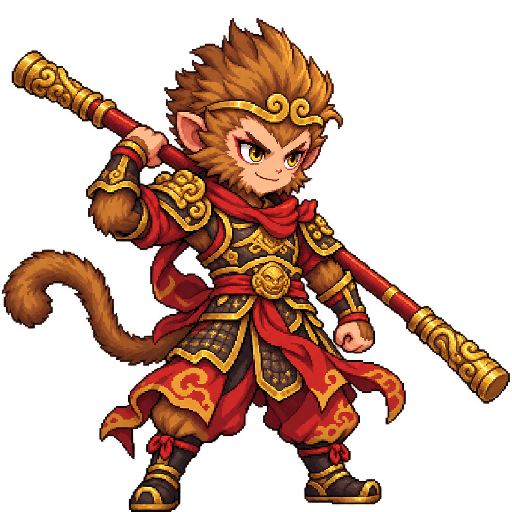
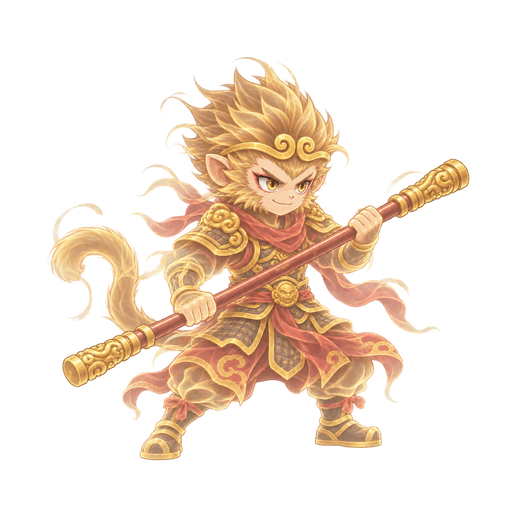
Codex 20261114T174152Z-4dfd205d: WUKONG-CLONE-ART (Codex) — ร่างแยกหงอคง + การ์ดท่ากวาด · 15 พ.ย. 2569 [ready_for_review]

diff --git a/docs/art-reviews/2026-11-15-wukong-clone-art/check-assets.py b/docs/art-reviews/2026-11-15-wukong-clone-art/check-assets.py
@@ -1,0 +1,67 @@
+"""ตรวจไฟล์ภาพส่งมอบด้วย Pillow; เรียกจาก working directory ใดก็ได้."""
+from pathlib import Path
+import hashlib
+import struct
+
+from PIL import Image
+
+ROOT = Path(__file__).resolve().parents[3]
+ART = ROOT / 'img/z2-events'
+EXPECTED = {
+    'boss-wukong-clone-asia.webp': ((512, 512), 'RGBA', b'VP8L'),
+    'boss-wukong-clone-asia-profile.webp': ((512, 512), 'RGB', b'VP8 '),
+    'cut-wukong-sweep-asia.webp': ((1672, 941), 'RGB', b'VP8 '),
+    'cut-wukong-clones-asia.webp': ((1672, 941), 'RGB', b'VP8 '),
+}
+
+
+def chunks(data):
+    assert data[:4] == b'RIFF' and data[8:12] == b'WEBP'
+    assert struct.unpack_from('<I', data, 4)[0] + 8 == len(data)
+    offset = 12
+    while offset < len(data):
+        size = struct.unpack_from('<I', data, offset + 4)[0]
+        yield data[offset:offset + 4]
+        offset += 8 + size + size % 2
+    assert offset == len(data)
+
+
+for name, (size, mode, encoding) in EXPECTED.items():
+    path = ART / name
+    data = path.read_bytes()
+    assert encoding in list(chunks(data)), f'{name}: unexpected WebP encoding'
+    with Image.open(path) as im:
+        im.load()  # Decode the entire image, not just its header.
+        assert im.format == 'WEBP' and im.size == size and im.mode == mode, name
+    print(f'OK {name}: {size[0]}x{size[1]} {mode} {encoding.decode().strip()} '
+          f'{len(data)} bytes SHA256={hashlib.sha256(data).hexdigest()}')
+
+with Image.open(ART / 'boss-wukong-clone-asia.webp') as clone:
+    alpha = clone.getchannel('A')
+    box = alpha.getbbox()
+    assert box and min(box[0], box[1], 512 - box[2], 512 - box[3]) >= 24
+    assert alpha.getextrema()[0] == 0
+    histogram = alpha.histogram()
+    assert sum(histogram[1:255]) > 10000, 'Missing painted partial transparency'
+    for bounds in [(0, 0, 512, 24), (0, 488, 512, 512),
+                   (0, 0, 24, 512), (488, 0, 512, 512)]:
+        assert alpha.crop(bounds).getextrema() == (0, 0), 'Dirty canvas edge'
+    pixels = clone.tobytes()
+    assert all(pixels[i:i + 3] == b'\0\0\0'
+               for i in range(0, len(pixels), 4) if pixels[i + 3] == 0), \
+        'Hidden matte color in fully transparent pixels'
+    with Image.open(ART / 'boss-wukong-asia.webp') as original:
+        original_box = original.getchannel('A').getbbox()
+        assert box[3] - box[1] < original_box[3] - original_box[1]
+    print(f'OK alpha: bbox={box}; 24px transparent border; '
+          f'{sum(histogram[1:255])} partially transparent pixels; no hidden matte')
+
+for suffix in ['', '-profile']:
+    assert (ART / f'boss-wukong-clone-asia{suffix}.webp').read_bytes() != \
+        (ART / f'boss-wukong-asia{suffix}.webp').read_bytes(), 'Unchanged placeholder'
+
+with Image.open(Path(__file__).with_name('contact-sheet.jpg')) as sheet:
+    sheet.load()
+    assert sheet.format == 'JPEG' and sheet.mode == 'RGB' and sheet.size == (1600, 2208)
+print('OK contact-sheet.jpg: 1600x2208 RGB JPEG')
+print('ตรวจโครงสร้างไฟล์ครบ 4 ภาพ; องค์ประกอบและขอบบนพื้นสว่าง/เข้มต้องตรวจด้วยสายตาร่วมด้วย')

diff --git a/docs/art-reviews/2026-11-15-wukong-clone-art/README.md b/docs/art-reviews/2026-11-15-wukong-clone-art/README.md
@@ -1,0 +1,98 @@
+# ภาพร่างแยกหงอคงและการ์ดท่ากวาด — 15 พฤศจิกายน 2569
+
+ส่งมอบภาพวาดใหม่ 4 ภาพ ใช้ ImageGen ในตัว 4 ครั้งจากงบไม่เกิน 8 ครั้ง ภาพละ 1 ครั้ง ไม่มี retry ทั้งหมดอ้างอิงหงอคงของโปรเจกต์และฉากศึกบูรพา ไม่เปลี่ยนโค้ดเกม
+
+## ไฟล์ส่งมอบ
+
+| ไฟล์ใน img/z2-events/ | ขนาด | โหมด | การบันทึก |
+| --- | --- | --- | --- |
+| boss-wukong-clone-asia.webp | 512×512 | RGBA | WebP lossless |
+| boss-wukong-clone-asia-profile.webp | 512×512 | RGB | WebP q86 |
+| cut-wukong-sweep-asia.webp | 1672×941 | RGB | WebP q86 |
+| cut-wukong-clones-asia.webp | 1672×941 | RGB | WebP q86 |
+
+สามไฟล์แรกเขียนทับ placeholder ตามชื่อและขนาดเดิม ไฟล์สุดท้ายเป็นภาพเสริมที่เพิ่มใหม่
+
+**ถึง Claudy:** `img/z2-events/cut-wukong-clones-asia.webp` ยังไม่มีจุดเรียกใช้ในเกม ภาพพร้อมสำหรับนำไปผูกกับท่าถอนขนสร้างร่างแยกในงานถัดไป รายงานนี้ไม่ได้ส่งข้อความหา Claudy และไม่ได้เพิ่มจุดเรียกใช้เอง
+
+## ภาพรวมสำหรับตรวจงาน
+
+[เปิด contact sheet](contact-sheet.jpg) — JPEG 1600×2208 ไม่มีข้อความวาดทับภาพ
+
+- แถวบน ซ้ายไปขวา: ตัวจริงอ้างอิงบนพื้นเข้ม, ร่างแยกบนพื้นเข้ม, ร่างแยกบนพื้นสว่าง, ภาพครึ่งตัวร่างแยก
+- แถวกลาง: กระบองกวาดสิบทิศ
+- แถวล่าง: เป่าขนกลายเป็นร่างแยก
+
+## แหล่งอ้างอิงและวิธีส่งออก
+
+- `img/z2-events/boss-wukong-asia.webp`: หน้า สัดส่วนลิงแบบ chibi ห่วงทอง เกราะแดงทอง ผ้าพันคอ หาง และกระบอง
+- `img/z2-events/boss-wukong-asia-profile.webp`: การจัดภาพครึ่งตัวและฉากวัดสีเขียวเข้ม
+- `img/z2-events/cut-wukong-arrives-asia.webp`: ลายเส้น การลงสี และแสงของฉากเหตุการณ์
+- `img/theme-v4/arena-asia.webp`: ลานศึกบูรพาที่ระบบ `battleBackground` เลือกใช้สำหรับศึกโซน asia
+
+ร่างแยกและความโปร่งแสงวาดโดย ImageGen พร้อมเส้นขนปลิว ไม่ใช้โค้ดย้อมสี ตัวสไปรต์ต้นฉบับ 1254×1254 RGBA ย่อแบบ premultiplied alpha ด้วย Lanczos เป็น 460×460 แล้ววางกลางผืนโปร่งใส 512×512 เพื่อให้เล็กกว่าตัวจริง ภาพครึ่งตัวย่อจาก 1254×1254 เป็น 512×512 ฉากกว้างได้ 1672×941 จากเครื่องมืออยู่แล้ว จึงไม่ต้องย่อหรือครอป
+
+ใช้ Pillow บันทึก RGB ด้วย `quality=86, method=6` และ RGBA ด้วย `lossless=True, quality=100, method=6, exact=True` ล้างเพียง alpha noise ที่ค่า ≤2/255 และ RGB ของพิกเซลโปร่งใสสนิทให้เป็นศูนย์ ไม่ลดอัลฟาทั้งภาพหรือเปลี่ยนสีส่วนที่เห็น
+
+## ผลตรวจที่ทำจริง
+
+เรียกจากราก repo:
+
+```sh
+python3 docs/art-reviews/2026-11-15-wukong-clone-art/check-assets.py
+node --test tests/boss-skills.test.mjs tests/z2-events-order.test.mjs tests/battle-background.test.mjs
+git diff --check
+```
+
+- ตัวตรวจภาพเปิดและ decode ครบทั้ง 4 ไฟล์ ตรวจชื่อ ขนาด โหมดสี และชนิด WebP: RGBA เป็น VP8L; RGB เป็น VP8
+- สไปรต์มีกรอบอัลฟาสงวนโปร่งใสอย่างน้อย 24 px ทุกด้าน; bounding box ส่วนที่เห็นคือ `(47, 56, 471, 462)`; มีพิกเซลโปร่งแสง 77,535 พิกเซล
+- ไม่เหลือสี matte ซ่อนอยู่ในพิกเซล alpha=0 หลังแก้ รอบตรวจแรกพบ 3,213 พิกเซลที่มี RGB ค้างอยู่ จึงล้างค่าและเรียกตัวตรวจซ้ำ ผลตรวจสุดท้ายครบตาม assertion
+- ตรวจ contact sheet จากไฟล์ WebP ที่ส่งออกจริง ทั้งพื้นสว่างและพื้นเข้ม: ไม่พบขอบพื้นหลังทึบ เส้นขนและความโปร่งแสงยังเห็นต่อเนื่อง
+- Node tests ทั้งสามไฟล์: 30 รายการสำเร็จ, 0 ล้มเหลว มี ExperimentalWarning ของ Node เรื่อง localStorage จากชุดทดสอบเดิม
+- ตรวจภาพด้วยสายตา: ไม่พบตัวอักษรในภาพทั้งสี่ หน้าตาและชุดยึดแบบเดิม การ์ดกวาดมีหงอคงเพียงตัวเดียวพร้อมวงกระบอง ลม และเศษหิน ส่วนภาพเสริมมีตัวจริงกำลังเป่าขนและร่างแยกสีทองหลายตน
+- ไม่ได้เปิดเกมทดสอบการแสดงผลจริง ผล Node เป็นการตรวจระบบและจุดอ้างอิงเดิม ไม่ใช่ผลตรวจภาพในเกม
+
+ค่าคุณภาพ q86 เป็นพารามิเตอร์ตอนบันทึก ส่วนตัวตรวจยืนยันได้เฉพาะชนิด codec ไม่ได้อนุมานค่า q จากไฟล์ที่เข้ารหัสแล้ว การตรวจด้วยสายตาไม่ได้ใช้ OCR ยืนยันว่าไม่มีข้อความ
+
+## ตรวจตนเองตามเกณฑ์รับงาน
+
+| เกณฑ์ | หลักฐาน / ขอบเขต |
+| --- | --- |
+| สไปรต์ร่างแยก 512×512 RGBA เล็กกว่าตัวจริง ถือกระบองพร้อมสู้ โปร่งแสงทองและขนปลิว | ภาพใหม่มีท่าและเส้นขนเฉพาะ; ขนาด โหมด อัลฟา และความสูงที่เล็กกว่าตัวจริงตรวจโดยสคริปต์ |
+| ครึ่งตัวร่างแยก 512×512 RGB ตามแบบ profile | ใช้สไปรต์ร่างแยกใหม่และ profile ตัวจริงเป็น reference; ตรวจเทียบใน contact sheet |
+| การ์ดกวาด 1672×941 RGB วงกระบอง ลม เศษหิน ไม่มีทีม | ตรวจโครงสร้างโดยสคริปต์และองค์ประกอบด้วยสายตา |
+| ภาพถอนขนเพิ่มเมื่อมีงบ พร้อมบอก Claudy | สร้างเพิ่มเป็นไฟล์ใหม่ในงบ; มีข้อความส่งต่องานถึง Claudy ด้านบน ยังไม่ผูกกับเกม |
+| รูปลักษณ์และฉากตาม reference ไม่มีตัวอักษร | ตรวจภาพส่งออกเทียบ reference ด้วยสายตา |
+| WebP q86 สำหรับ RGB และ lossless สำหรับ RGBA; ขอบอัลฟาสะอาด | พารามิเตอร์บันทึกและการตรวจ codec; กรอบโปร่งใส, ไม่มี RGB ซ่อน, ตรวจบนพื้นสว่าง/เข้ม |
+| งบ ≤8 ครั้ง และ retry ≤2 ครั้งต่อภาพ | ใช้ 4 ครั้ง ภาพละ 1 ครั้ง; retry 0 |
+| มี contact sheet JPG และ README ไทยในโฟลเดอร์ที่กำหนด | ทั้งสองไฟล์อยู่โฟลเดอร์เดียวกับรายงานนี้ พร้อมสคริปต์ตรวจซ้ำ |
+| จำกัดขอบเขตงานใน worktree / branch เดิม | แก้เฉพาะภาพส่งมอบและรายงาน; ไม่แก้ source เกม hooks status.json หรือ worklog.json; ไม่สร้าง worktree/branch ไม่ commit/push/merge และไม่ deploy |
+
+## พรอมป์ต์ที่ใช้จริง
+
+ใช้เครื่องมือ ImageGen ในตัวทั้งหมด ไม่ใช้ CLI/API fallback ภาพที่ 1 เปิด `transparent_background=true` อีกสามภาพใช้ `false` Reference ของภาพที่ 2 และ 4 ใช้ร่างแยกจากภาพที่ 1 เพื่อคุมหน้าตาให้ตรงกัน
+
+### ภาพที่ 1
+
+```text
+Use case: stylized-concept. Create ONE finished square game sprite, a hair-born magical clone of the exact Wukong in reference image 1. Reference 1 is identity and hand-painted chibi fantasy art style, not an edit target. Keep his recognizable youthful monkey face, spiky swept-up fur, curled gold forehead circlet, red scarf and flowing red tabard, ornate red and gold armor with dark scale panels, monkey-tail, boots and long red-shaft staff with elaborate golden ends. New pose: full body in a compact ready-to-fight stance, holding the staff diagonally across his body in both hands. The clone should occupy about 82% of the square height, slightly smaller than the reference original, entire tail and both staff ends inside frame with padding. CRUCIAL: design the clone as a pale honey-gold translucent apparition with readable armor details and faint translucent muted red accents, a semi-transparent luminous body, and actual wispy individual golden monkey hairs breaking away from the silhouette, hair strands trailing from shoulders, arms and tail. This is hand-drawn clone-specific art, not a simple recolor of the original. Strong coherent silhouette and clear face at 512px game size, nuanced ink outlines and painted shading matching reference. True transparent background with alpha, no scenery, no ground plane, no hard aura disc, no opaque backdrop, no cast shadow. Do not draw any text, glyphs, letters, numbers, logos, borders, or watermark. Only ONE clone, no other characters. Output square with actual transparency.
+```
+
+### ภาพที่ 2
+
+```text
+Use case: stylized-concept. Make ONE finished square half-body game portrait. Reference image 1 is the ORIGINAL Wukong profile: copy its square waist-up framing, dark teal misty eastern temple setting, dense painted chibi fantasy illustration style. Reference image 2 is the GOLDEN HAIR CLONE whose exact character identity and ghostly material you must preserve. Paint a close waist-up portrait of that same hair-born clone: youthful monkey face, sharp golden eyes, swept-up spiky monkey fur with wispy hairs peeling off at edges, curled gold circlet, ornate red-gold armor with dark scale panels, round gold belt clasp and red scarf. He holds the elaborate golden-ended red staff diagonally ready for combat, as the clone reference. Pale honey-gold translucent apparition with muted red fabric still readable and delicate luminous hair strands trailing from head, shoulders and arms; faint scenery can be seen through some outer shoulder/scarf wisps. Render the phantom quality in the drawing, no flat global recolor, keep crisp eyes and recognizable face. Opaque full-bleed RGB scene with the same atmospheric dark teal pine/temple/lantern backdrop as the original profile; NO other people or creatures. Artwork only, absolutely NO text, letters, numbers, glyphs, logo, watermark or frame. One square portrait, high visual consistency with both references.
+```
+
+### ภาพที่ 3
+
+```text
+Use case: illustration-story. Create ONE finished wide 16:9 fantasy game battle skill illustration, a dramatic horizontal staff sweep attack. Input reference 1: exact ORIGINAL Wukong identity and outfit. Input reference 2: cinematic painted chibi/anime art style of his arrival. Input reference 3: actual eastern battle arena environment, use this courtyard as the location. Draw the ORIGINAL opaque Wukong, with the same youthful monkey face, spiky brown-golden hair, curled golden head circlet, bright red scarf, ornate red-and-gold armor, dark scale panels, gold lion belt clasp, monkey tail, boots, and long red-shaft staff with elaborate golden ends. Wukong is the ONLY character, centered in a dynamic low full-body pivot stance, gripping ONE long staff with two hands, spinning it horizontally around himself. Clearly show a sweeping complete elliptical circular golden motion arc surrounding him at waist height, with wind spirals and broken stone fragments exploding radially in ALL directions from the powerful sweep. Anatomically coherent two arms/two legs, solid readable staff, energetic perspective. The sweep must read as 360-degree area attack, not a single forward strike. Set on cracked grey-green geometric stone paving of the eastern temple arena, red pillars, gold-trimmed railings, teal tiled temples, red maples, misty karst mountains, lantern light. Match arrival's rich hand-painted outlines, warm gold action lighting and polished illustrated detail. Wide cinematic composition intended for final 1672x941 crop, keep Wukong and staff tips within safe margins. No Yama, no teammates, no enemies, no clones, no spectators. NO text anywhere, no writing on architecture, no letters, symbols resembling writing, numbers, UI, frame, watermark or logo. Full-bleed landscape illustration, opaque background.
+```
+
+### ภาพที่ 4
+
+```text
+Use case: illustration-story. Create ONE finished wide 16:9 fantasy game skill illustration of Wukong blowing plucked monkey hairs into magical clones. Input 1: exact original Wukong character identity/outfit. Input 2: exact hair-born golden clone design, use for clones only. Input 3: painted cinematic fantasy illustration style. Input 4: actual eastern battle courtyard setting. ORIGINAL opaque Wukong in left foreground, recognizably same youthful monkey face, spiky brown-gold fur, curled golden circlet, ornate red-gold armor with dark scale panels, red scarf, gold lion belt buckle, monkey tail and golden-ended red staff held upright in his left hand. His right hand is held just in front of pursed lips; fingers show several fine newly plucked golden monkey hairs on his palm, which he is blowing toward the right. Clear visual story left to right: a few long fine floating hairs leave his mouth/hand, curl into small golden monkey-shaped hair silhouettes in midair, then become THREE distinct complete smaller hair clones in ready-to-fight poses on the right, each holding the same golden-ended staff. Clones are pale honey-gold translucent apparitions with muted red armor and fabric detail, wispy hair edges, same face/circlet/costume as original and clone reference, gold light passing through their outlines. Arrange three complete clones at different depths on the right, read clearly as separate figures, no overlap confusion. Richly illustrated chibi/anime fantasy, inked painted shading and warm gold magical lighting matching reference 3. Courtyard has grey-green patterned stone paving, distant red pillars, teal-roofed eastern temples, gold-trimmed rails, lanterns, red maples and misty mountain peaks as reference 4. Scene is an orderly summoning moment, no sweep circle, no explosion. Full-bleed wide opaque landscape for final 1672x941. No Yama, teammates, enemies or spectators, only Wukong plus the three clones. Absolutely NO text, glyphs, letters, numbers, calligraphy, logos, UI, watermark or border anywhere.
+```
+
